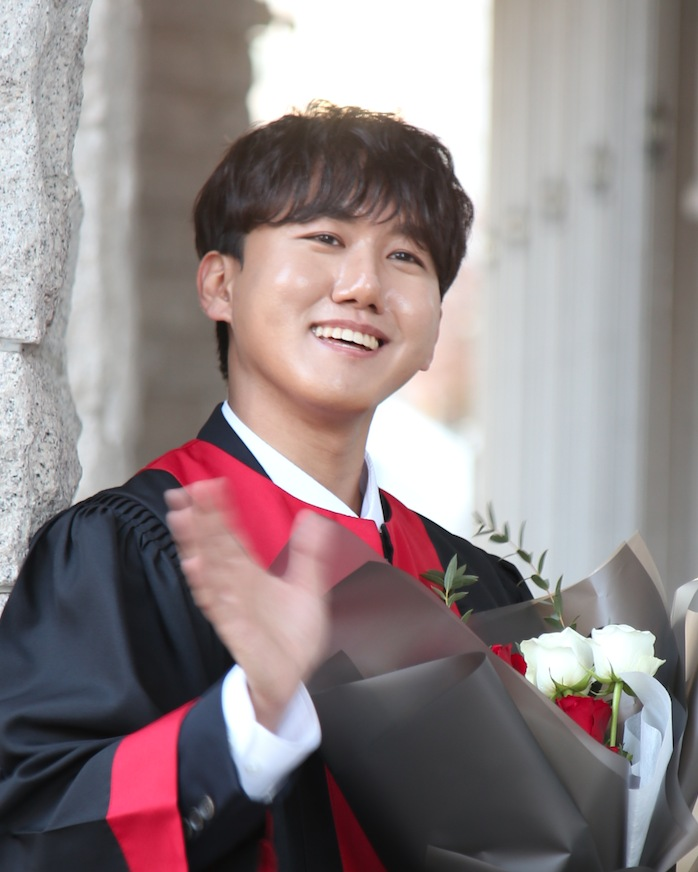
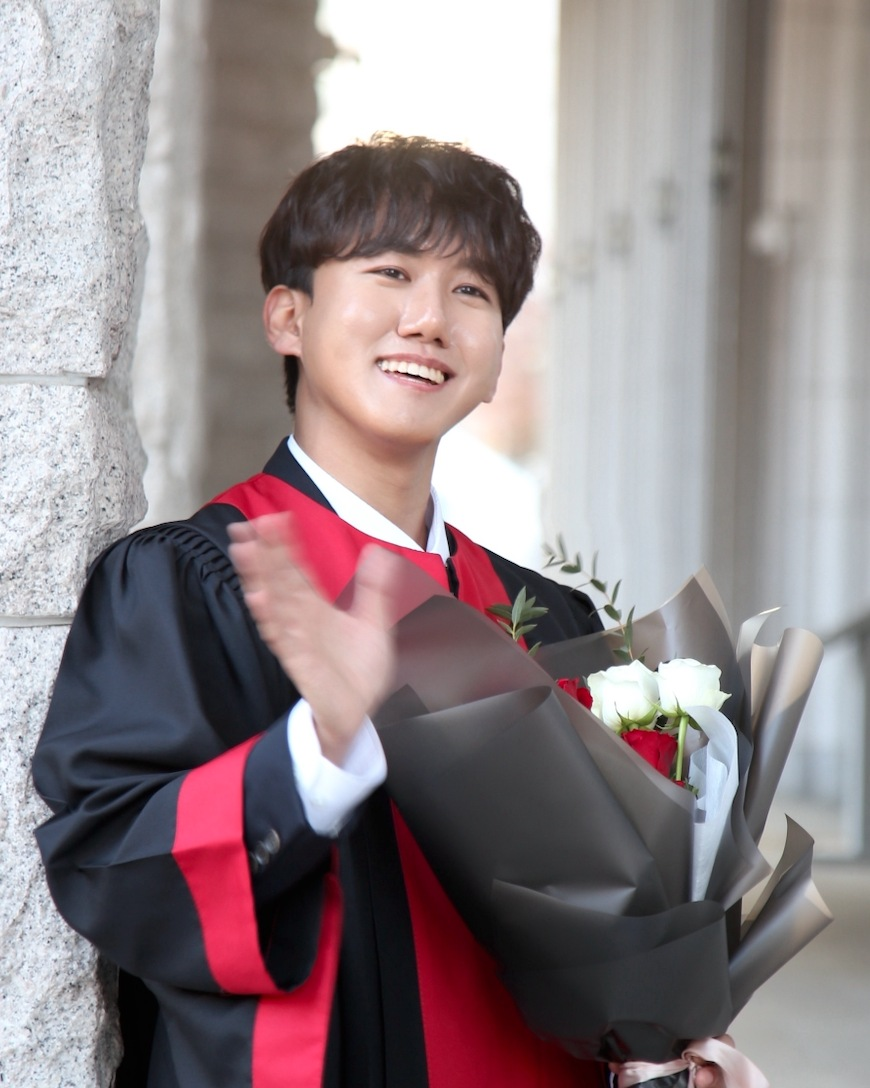
[claude] 프로필 사진 크롭 교체 (10-21)
Claude-Session: https://claude.ai/code/session_01QamvSQWMaWYtFo4wEY9CPk

diff --git a/index.html b/index.html
@@ -350,7 +350,7 @@ footer{text-align:center;padding:2rem 1.5rem;color:var(--muted);font-size:0.8rem
   <div class="wrap">
     <div class="hero-grid">
       <div class="profile-photo" id="profilePhoto">
-        <img src="Kwon_profile.jpeg?v=20261021" alt="Minjae Kwon" id="profileImg">
+        <img src="Kwon_profile.jpeg?v=20261021b" alt="Minjae Kwon" id="profileImg">
         <img src="Kwon_profile_hover.jpg?v=20261021" alt="" aria-hidden="true" class="alt" id="profileImgAlt">
         <svg viewBox="0 0 24 24" fill="none" stroke="currentColor" stroke-width="1.4" style="display:none" id="profileSvg">
           <circle cx="12" cy="8" r="4"/><path d="M4 20c0-4 4-6 8-6s8 2 8 6"/>
@@ -1649,7 +1649,7 @@ function init(){
   var profilePhoto = document.getElementById('profilePhoto');
   profilePhoto.addEventListener('click', function(){
     if (profileImg.style.display !== 'none'){
-      openModal('Kwon_profile.jpeg?v=20261021', '');
+      openModal('Kwon_profile.jpeg?v=20261021b', '');
     }
   });
   profileImg.addEventListener('error', function(){
